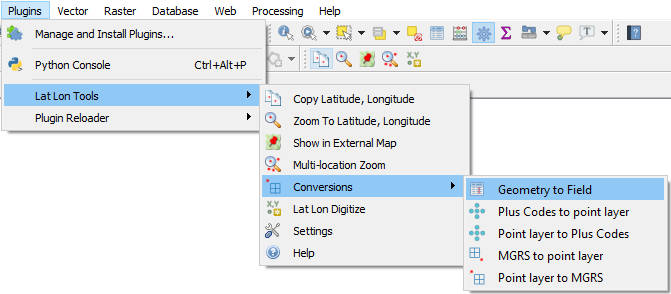
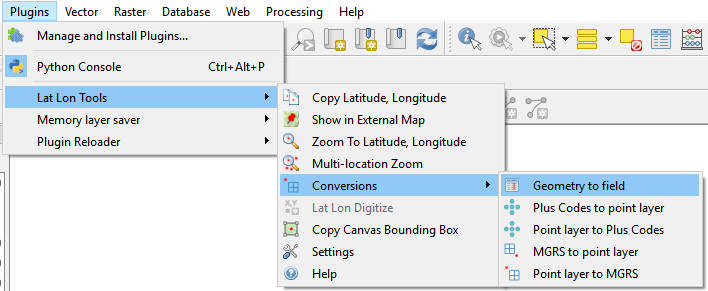
added canvas bounding box capture - updated docs

Changed region(s): [[0.0, 0.0, 1.0, 1.0]]

diff --git a/settings.py b/settings.py
@@ -13,6 +13,27 @@ FORM_CLASS, _ = loadUiType(os.path.join(
     os.path.dirname(__file__), 'ui/latLonSettings.ui'))
 
 
+class Settings():
+
+    def __init__(self):
+        self.readSettings()
+
+    def readSettings(self):
+        '''Load the user selected settings. The settings are retained even when
+        the user quits QGIS. This just loads the saved information into variables,
+        but does not update the widgets. The widgets are updated with showEvent.'''
+        qset = QSettings()
+        
+        ### BBOX CAPTURE SETTINGS ###
+        self.bBoxCrs = int(qset.value('/LatLonTools/BBoxCrs', 0)) # Specifies WGS 84
+        self.bBoxFormat = int(qset.value('/LatLonTools/BBoxFormat', 0))
+        self.bBoxDelimiter = qset.value('/LatLonTools/BBoxDelimiter', ',')
+        self.bBoxDigits = int(qset.value('/LatLonTools/BBoxDigits', 8))
+        self.bBoxPrefix = qset.value('/LatLonTools/BBoxPrefix', '')
+        self.bBoxSuffix = qset.value('/LatLonTools/BBoxSuffix', '')
+
+settings = Settings()
+
 class SettingsWidget(QDialog, FORM_CLASS):
     '''Settings Dialog box.'''
     Wgs84TypeDecimal = 0
@@ -62,6 +83,18 @@ class SettingsWidget(QDialog, FORM_CLASS):
         self.markerStyleComboBox.addItems(['Default','Labeled','Custom'])
         self.multiCoordOrderComboBox.addItems(['Lat, Lon (Y,X) - Google Map Order','Lon, Lat (X,Y) Order'])
         self.qmlStyle = ''
+        
+        ### BBOX CAPTURE SETTINGS ###
+        self.bBoxCrsComboBox.addItems(['WGS 84 (Latitude & Longitude)', 'Project CRS'])
+        self.bBoxFormatComboBox.addItems([
+            '"minX,minY,maxX,maxY" - Using the selected delimiter',
+            '"minX,maxX,minY,maxY" - Using the selected delimiter',
+            '"x1 y1,x2 y2,x3 y3,x4 y4,x1 y1" - Rectangle format',
+            'WKT Polygon',
+            '"bbox: [minX, minY, maxX, maxY]" - MapProxy',
+            '"bbox=minX,minY,maxX,maxY" - GeoServer WFS, WMS'
+            ])
+        self.bBoxDelimiterComboBox.addItems(['Comma', 'Comma, Space','Space','Tab','Other'])
         
         self.readSettings()
     
@@ -113,87 +146,117 @@ class SettingsWidget(QDialog, FORM_CLASS):
         self.markerStyleComboBox.setCurrentIndex(0)
         self.extraDataSpinBox.setValue(0)
         
+        ### BBOX CAPTURE SETTINGS ###
+        self.bBoxCrsComboBox.setCurrentIndex(0) # WGS 84
+        self.bBoxFormatComboBox.setCurrentIndex(0) # MapProxy format
+        self.bBoxDelimiterComboBox.setCurrentIndex(0) # Comma
+        self.bBoxDelimiterLineEdit.setText('')
+        self.bBoxPrefixLineEdit.setText('')
+        self.bBoxSuffixLineEdit.setText('')
+        self.bBoxDigitsSpinBox.setValue(8)
+        
     def readSettings(self):
         '''Load the user selected settings. The settings are retained even when
         the user quits QGIS. This just loads the saved information into varialbles,
         but does not update the widgets. The widgets are updated with showEvent.'''
-        settings = QSettings()
+        qset = QSettings()
         
         ### CAPTURE SETTINGS ###
-        self.captureProjection = int(settings.value('/LatLonTools/CaptureProjection', self.ProjectionTypeWgs84))
-        self.delimiter = settings.value('/LatLonTools/Delimiter', ', ')
-        self.dmsPrecision =  int(settings.value('/LatLonTools/DMSPrecision', 0))
-        self.coordOrder = int(settings.value('/LatLonTools/CoordOrder', self.OrderYX))
-        self.wgs84NumberFormat = int(settings.value('/LatLonTools/WGS84NumberFormat', 0))
-        self.otherNumberFormat = int(settings.value('/LatLonTools/OtherNumberFormat', 0))
-        self.plusCodesLength = int(settings.value('/LatLonTools/PlusCodesLength', 10))
-        self.decimalDigits = int(settings.value('/LatLonTools/DecimalDigits', 6))
+        self.captureProjection = int(qset.value('/LatLonTools/CaptureProjection', self.ProjectionTypeWgs84))
+        self.delimiter = qset.value('/LatLonTools/Delimiter', ', ')
+        self.dmsPrecision =  int(qset.value('/LatLonTools/DMSPrecision', 0))
+        self.coordOrder = int(qset.value('/LatLonTools/CoordOrder', self.OrderYX))
+        self.wgs84NumberFormat = int(qset.value('/LatLonTools/WGS84NumberFormat', 0))
+        self.otherNumberFormat = int(qset.value('/LatLonTools/OtherNumberFormat', 0))
+        self.plusCodesLength = int(qset.value('/LatLonTools/PlusCodesLength', 10))
+        self.decimalDigits = int(qset.value('/LatLonTools/DecimalDigits', 6))
         
         ### ZOOM TO SETTINGS ###
-        self.zoomToCoordOrder = int(settings.value('/LatLonTools/ZoomToCoordOrder', self.OrderYX))
-        self.zoomToProjection = int(settings.value('/LatLonTools/ZoomToCoordType', 0))
-        self.persistentMarker = int(settings.value('/LatLonTools/PersistentMarker', Qt.Checked))
+        self.zoomToCoordOrder = int(qset.value('/LatLonTools/ZoomToCoordOrder', self.OrderYX))
+        self.zoomToProjection = int(qset.value('/LatLonTools/ZoomToCoordType', 0))
+        self.persistentMarker = int(qset.value('/LatLonTools/PersistentMarker', Qt.Checked))
         
         ### EXTERNAL MAP ###
-        self.showPlacemark = int(settings.value('/LatLonTools/ShowPlacemark', Qt.Checked))
-        self.mapProvider = int(settings.value('/LatLonTools/MapProvider', 0))
-        self.mapZoom = int(settings.value('/LatLonTools/MapZoom', 13))
+        self.showPlacemark = int(qset.value('/LatLonTools/ShowPlacemark', Qt.Checked))
+        self.mapProvider = int(qset.value('/LatLonTools/MapProvider', 0))
+        self.mapZoom = int(qset.value('/LatLonTools/MapZoom', 13))
         
         ### MULTI-ZOOM CUSTOM QML STYLE ###
-        self.multiZoomToProjection = int(settings.value('/LatLonTools/MultiZoomToProjection', 0))
-        self.multiCoordOrder = int(settings.value('/LatLonTools/MultiCoordOrder', self.OrderYX))
-        self.multiZoomNumCol = int(settings.value('/LatLonTools/MultiZoomExtraData', 0))
-        self.multiZoomStyleID = int(settings.value('/LatLonTools/MultiZoomStyleID', 0))
-        self.qmlStyle = settings.value('/LatLonTools/QmlStyle', '')
+        self.multiZoomToProjection = int(qset.value('/LatLonTools/MultiZoomToProjection', 0))
+        self.multiCoordOrder = int(qset.value('/LatLonTools/MultiCoordOrder', self.OrderYX))
+        self.multiZoomNumCol = int(qset.value('/LatLonTools/MultiZoomExtraData', 0))
+        self.multiZoomStyleID = int(qset.value('/LatLonTools/MultiZoomStyleID', 0))
+        self.qmlStyle = qset.value('/LatLonTools/QmlStyle', '')
         if (self.multiZoomStyleID == 2) and (self.qmlStyle == '' or self.qmlStyle == None or not os.path.isfile(self.qmlStyle)):
             # If the file is invalid then set to an emply string
-            settings.setValue('/LatLonTools/QmlStyle', '')
-            settings.setValue('/LatLonTools/MultiZoomStyleID', 0)
+            qset.setValue('/LatLonTools/QmlStyle', '')
+            qset.setValue('/LatLonTools/MultiZoomStyleID', 0)
             self.qmlStyle = ''
             self.multiZoomStyleID = 0
+        
+        ### BBOX SETTINGS ###
+        settings.readSettings()
         
         self.setEnabled()
         
     def accept(self):
         '''Accept the settings and save them for next time.'''
-        settings = QSettings()
+        qset = QSettings()
         
         ### CAPTURE SETTINGS ###
-        settings.setValue('/LatLonTools/CaptureProjection', int(self.captureProjectionComboBox.currentIndex()))
+        qset.setValue('/LatLonTools/CaptureProjection', int(self.captureProjectionComboBox.currentIndex()))
             
-        settings.setValue('/LatLonTools/WGS84NumberFormat', int(self.wgs84NumberFormatComboBox.currentIndex()))
-        settings.setValue('/LatLonTools/OtherNumberFormat', int(self.otherNumberFormatComboBox.currentIndex()))
-        settings.setValue('/LatLonTools/CoordOrder', int(self.coordOrderComboBox.currentIndex()))
+        qset.setValue('/LatLonTools/WGS84NumberFormat', int(self.wgs84NumberFormatComboBox.currentIndex()))
+        qset.setValue('/LatLonTools/OtherNumberFormat', int(self.otherNumberFormatComboBox.currentIndex()))
+        qset.setValue('/LatLonTools/CoordOrder', int(self.coordOrderComboBox.currentIndex()))
         delim = self.delimComboBox.currentIndex()
         if delim == 0:
-            settings.setValue('/LatLonTools/Delimiter', ', ')
+            qset.setValue('/LatLonTools/Delimiter', ', ')
         elif delim == 1:
-            settings.setValue('/LatLonTools/Delimiter', ' ')
+            qset.setValue('/LatLonTools/Delimiter', ' ')
         elif delim == 2:
-            settings.setValue('/LatLonTools/Delimiter', '\t')
+            qset.setValue('/LatLonTools/Delimiter', '\t')
         else:
-            settings.setValue('/LatLonTools/Delimiter', self.otherTxt.text())
+            qset.setValue('/LatLonTools/Delimiter', self.otherTxt.text())
             
-        settings.setValue('/LatLonTools/DMSPrecision', self.precisionSpinBox.value())
-        settings.setValue('/LatLonTools/PlusCodesLength', self.plusCodesSpinBox.value())
-        settings.setValue('/LatLonTools/DecimalDigits', self.digitsSpinBox.value())
+        qset.setValue('/LatLonTools/DMSPrecision', self.precisionSpinBox.value())
+        qset.setValue('/LatLonTools/PlusCodesLength', self.plusCodesSpinBox.value())
+        qset.setValue('/LatLonTools/DecimalDigits', self.digitsSpinBox.value())
         
         ### ZOOM TO SETTINGS ###
-        settings.setValue('/LatLonTools/ZoomToCoordType', int(self.zoomToProjectionComboBox.currentIndex()))
-        settings.setValue('/LatLonTools/ZoomToCoordOrder', int(self.zoomToCoordOrderComboBox.currentIndex()))
-        settings.setValue('/LatLonTools/PersistentMarker', self.persistentMarkerCheckBox.checkState())
+        qset.setValue('/LatLonTools/ZoomToCoordType', int(self.zoomToProjectionComboBox.currentIndex()))
+        qset.setValue('/LatLonTools/ZoomToCoordOrder', int(self.zoomToCoordOrderComboBox.currentIndex()))
+        qset.setValue('/LatLonTools/PersistentMarker', self.persistentMarkerCheckBox.checkState())
         
         ### EXTERNAL MAP ###
-        settings.setValue('/LatLonTools/ShowPlacemark', self.showPlacemarkCheckBox.checkState())
-        settings.setValue('/LatLonTools/MapProvider',int(self.mapProviderComboBox.currentIndex()))
-        settings.setValue('/LatLonTools/MapZoom',int(self.zoomSpinBox.value()))
+        qset.setValue('/LatLonTools/ShowPlacemark', self.showPlacemarkCheckBox.checkState())
+        qset.setValue('/LatLonTools/MapProvider',int(self.mapProviderComboBox.currentIndex()))
+        qset.setValue('/LatLonTools/MapZoom',int(self.zoomSpinBox.value()))
         
         ### MULTI-ZOOM TO SETTINGS ###
-        settings.setValue('/LatLonTools/MultiZoomToProjection', int(self.multiZoomToProjectionComboBox.currentIndex()))
-        settings.setValue('/LatLonTools/MultiCoordOrder', int(self.multiCoordOrderComboBox.currentIndex()))
-        settings.setValue('/LatLonTools/MultiZoomExtraData', int(self.extraDataSpinBox.value()))
-        settings.setValue('/LatLonTools/MultiZoomStyleID', int(self.markerStyleComboBox.currentIndex()))
-        settings.setValue('/LatLonTools/QmlStyle', self.qmlLineEdit.text())
+        qset.setValue('/LatLonTools/MultiZoomToProjection', int(self.multiZoomToProjectionComboBox.currentIndex()))
+        qset.setValue('/LatLonTools/MultiCoordOrder', int(self.multiCoordOrderComboBox.currentIndex()))
+        qset.setValue('/LatLonTools/MultiZoomExtraData', int(self.extraDataSpinBox.value()))
+        qset.setValue('/LatLonTools/MultiZoomStyleID', int(self.markerStyleComboBox.currentIndex()))
+        qset.setValue('/LatLonTools/QmlStyle', self.qmlLineEdit.text())
+        
+        ### BBOX CAPTURE SETTINGS ###
+        qset.setValue('/LatLonTools/BBoxCrs', int(self.bBoxCrsComboBox.currentIndex()))
+        qset.setValue('/LatLonTools/BBoxFormat', int(self.bBoxFormatComboBox.currentIndex()))
+        delim = self.bBoxDelimiterComboBox.currentIndex()
+        if delim == 0:
+            qset.setValue('/LatLonTools/BBoxDelimiter', ',')
+        elif delim == 1:
+            qset.setValue('/LatLonTools/BBoxDelimiter', ', ')
+        elif delim == 2:
+            qset.setValue('/LatLonTools/BBoxDelimiter', ' ')
+        elif delim == 3:
+            qset.setValue('/LatLonTools/BBoxDelimiter', '\t')
+        else:
+            qset.setValue('/LatLonTools/BBoxDelimiter', self.bBoxDelimiterLineEdit.text())
+        qset.setValue('/LatLonTools/BBoxPrefix', self.bBoxPrefixLineEdit.text())
+        qset.setValue('/LatLonTools/BBoxSuffix', self.bBoxSuffixLineEdit.text())
+        qset.setValue('/LatLonTools/BBoxDigits', self.bBoxDigitsSpinBox.value())
         
         # The values have been read from the widgets and saved to the registry.
         # Now we will read them back to the variables.
@@ -269,6 +332,25 @@ class SettingsWidget(QDialog, FORM_CLASS):
         self.extraDataSpinBox.setValue(self.multiZoomNumCol)
         self.markerStyleComboBox.setCurrentIndex(self.multiZoomStyleID)
         self.qmlLineEdit.setText(self.qmlStyle)
+        
+        ### BBOX CAPTURE SETTINGS ###
+        self.bBoxCrsComboBox.setCurrentIndex(settings.bBoxCrs)
+        self.bBoxFormatComboBox.setCurrentIndex(settings.bBoxFormat)
+        self.bBoxDelimiterLineEdit.setText('')
+        if settings.bBoxDelimiter == ',':
+            self.bBoxDelimiterComboBox.setCurrentIndex(0)
+        elif settings.bBoxDelimiter == ', ':
+            self.bBoxDelimiterComboBox.setCurrentIndex(1)
+        elif settings.bBoxDelimiter == ' ':
+            self.bBoxDelimiterComboBox.setCurrentIndex(2)
+        elif settings.bBoxDelimiter == '\t':
+            self.bBoxDelimiterComboBox.setCurrentIndex(3)
+        else:
+            self.bBoxDelimiterComboBox.setCurrentIndex(4)
+            self.bBoxDelimiterLineEdit.setText(settings.bBoxDelimiter)
+        self.bBoxPrefixLineEdit.setText(settings.bBoxPrefix)
+        self.bBoxSuffixLineEdit.setText(settings.bBoxSuffix)
+        self.bBoxDigitsSpinBox.setValue(settings.bBoxDigits)
         
         self.setEnabled()
 

diff --git a/latLonTools.py b/latLonTools.py
@@ -1,7 +1,7 @@
 from qgis.PyQt.QtCore import Qt, QTimer, QUrl
 from qgis.PyQt.QtGui import QIcon
-from qgis.PyQt.QtWidgets import QAction, QMenu
-from qgis.core import QgsCoordinateTransform, QgsVectorLayer, QgsRectangle, QgsPoint, QgsPointXY, QgsGeometry, QgsWkbTypes, QgsProject, QgsApplication
+from qgis.PyQt.QtWidgets import QAction, QMenu, QApplication
+from qgis.core import Qgis, QgsCoordinateTransform, QgsVectorLayer, QgsRectangle, QgsPoint, QgsPointXY, QgsGeometry, QgsWkbTypes, QgsProject, QgsApplication
 from qgis.gui import QgsRubberBand
 import processing
 
@@ -9,8 +9,9 @@ from .zoomToLatLon import ZoomToLatLon
 from .multizoom import MultiZoomWidget
 from .copyLatLonTool import CopyLatLonTool
 from .showOnMapTool import ShowOnMapTool
-from .settings import SettingsWidget
+from .settings import SettingsWidget, settings
 from .provider import LatLonToolsProvider
+from .util import epsg4326
 import os
 import webbrowser
 
@@ -105,6 +106,14 @@ class LatLonTools:
         self.toolbar.addAction(self.digitizeAction)
         self.iface.addPluginToMenu('Lat Lon Tools', self.digitizeAction)
         
+        # Add Interface for copying the canvas extent
+        icon = QIcon(os.path.dirname(__file__) + "/images/copycanvas.png")
+        self.copyCanvasAction = QAction(icon, "Copy Canvas Bounding Box", self.iface.mainWindow())
+        self.copyCanvasAction.setObjectName('latLonToolsCopyCanvas')
+        self.copyCanvasAction.triggered.connect(self.copyCanvas)
+        self.toolbar.addAction(self.copyCanvasAction)
+        self.iface.addPluginToMenu("Lat Lon Tools", self.copyCanvasAction)
+        
         # Initialize the Settings Dialog Box
         settingsicon = QIcon(os.path.dirname(__file__) + '/images/settings.png')
         self.settingsAction = QAction(settingsicon, "Settings", self.iface.mainWindow())
@@ -146,6 +155,7 @@ class LatLonTools:
         self.canvas.unsetMapTool(self.mapTool)
         self.canvas.unsetMapTool(self.showMapTool)
         self.iface.removePluginMenu('Lat Lon Tools', self.copyAction)
+        self.iface.removePluginMenu('Lat Lon Tools', self.copyCanvasAction)
         self.iface.removePluginMenu('Lat Lon Tools', self.externMapAction)
         self.iface.removePluginMenu('Lat Lon Tools', self.zoomToAction)
         self.iface.removePluginMenu('Lat Lon Tools', self.multiZoomToAction)
@@ -157,6 +167,7 @@ class LatLonTools:
         self.iface.removeDockWidget(self.multiZoomDialog)
         # Remove Toolbar Icons
         self.iface.removeToolBarIcon(self.copyAction)
+        self.iface.removeToolBarIcon(self.copyCanvasAction)
         self.iface.removeToolBarIcon(self.zoomToAction)
         self.iface.removeToolBarIcon(self.externMapAction)
         self.iface.removeToolBarIcon(self.multiZoomToAction)
@@ -176,6 +187,43 @@ class LatLonTools:
         self.copyAction.setChecked(True)
         self.canvas.setMapTool(self.mapTool)
 
+    def copyCanvas(self):
+        extent = self.iface.mapCanvas().extent()
+        canvasCrs = self.canvas.mapSettings().destinationCrs()
+        if settings.bBoxCrs ==0 and canvasCrs != epsg4326:
+            transform = QgsCoordinateTransform(canvasCrs, epsg4326, QgsProject.instance())
+            p1x, p1y = transform.transform(float(extent.xMinimum()), float(extent.yMinimum()))
+            p2x, p2y = transform.transform(float(extent.xMaximum()), float(extent.yMaximum()))
+            extent.set(p1x, p1y, p2x, p2y)
+        delim = settings.bBoxDelimiter
+        prefix = settings.bBoxPrefix
+        suffix = settings.bBoxSuffix
+        precision = settings.bBoxDigits
+        outStr = ''
+        if settings.bBoxFormat == 0: # minX,minY,maxX,maxY - using the delimiter
+            outStr = '{}{:.{prec}f}{}{:.{prec}f}{}{:.{prec}f}{}{:.{prec}f}{}'.format(prefix,
+                extent.xMinimum(),delim,extent.yMinimum(),delim,
+                extent.xMaximum(),delim,extent.yMaximum(),suffix,prec=precision)
+        elif settings.bBoxFormat == 1: # minX,maxX,minY,maxY - Using the selected delimiter'
+            outStr = '{}{:.{prec}f}{}{:.{prec}f}{}{:.{prec}f}{}{:.{prec}f}{}'.format(prefix,
+                extent.xMinimum(),delim,extent.xMaximum(),delim,
+                extent.yMinimum(),delim,extent.yMaximum(),suffix,prec=precision)
+        elif settings.bBoxFormat == 2: # x1 y1,x2 y2,x3 y3,x4 y4,x1 y1 - Polygon format
+            outStr = extent.asPolygon()
+        elif settings.bBoxFormat == 3: # WKT Polygon
+            outStr = extent.asWktPolygon()
+        elif settings.bBoxFormat == 4: # bbox: [minX, minY, maxX, maxY] - MapProxy
+            outStr = 'bbox: [{}, {}, {}, {}]'.format(
+                extent.xMinimum(),extent.yMinimum(),
+                extent.xMaximum(),extent.yMaximum())
+        elif settings.bBoxFormat == 5: # bbox: [minX, minY, maxX, maxY] - MapProxy
+            outStr = 'bbox={},{},{},{}'.format(
+                extent.xMinimum(),extent.yMinimum(),
+                extent.xMaximum(),extent.yMaximum())
+        clipboard = QApplication.clipboard()
+        clipboard.setText(outStr)
+        self.iface.messageBar().pushMessage("", "'{}' copied to the clipboard".format(outStr), level=Qgis.Info, duration=4)
+        
     def setShowMapTool(self):
         '''Set the focus of the external map tool and check it'''
         self.externMapAction.setChecked(True)

diff --git a/readme.md b/readme.md
@@ -23,7 +23,7 @@ Some of the functions can be accessed from the ***Lat Lon Tools*** toolbar. If f
     * Example MGRS coordinate when **Zoom to Coordinate Type** is set to ***MGRS***: 15S UD 03704 14710
     * Example Plus Code coordinate when **Zoom to Coordinate Type** is set to ***Plus Codes***: 86C6XP5M+QR
 
-* <img src="images/latLonDigitize.png" alt="Digitizing Tool"> ***Points Digitizing Tool*** - This tool digitizes points and add features the selcted layer using the same coordinate input formats as the ***Zoom, to Latitude, Longitude***. A point vector layer must be selected and be edit mode for this tool to be enabled. When the user clicks on the tool, the following dialog is displayed.
+* <img src="images/latLonDigitize.png" alt="Digitizing Tool"> ***Lat Lon Digitizing Tool*** - This tool digitizes points and add features the selcted layer using the same coordinate input formats as the ***Zoom, to Latitude, Longitude***. A point vector layer must be selected and be edit mode for this tool to be enabled. When the user clicks on the tool, the following dialog is displayed.
     
     <div style="text-align:center"><img src="doc/addfeature.jpg" alt="Add Feature"></div>
     
@@ -78,6 +78,8 @@ Some of the functions can be accessed from the ***Lat Lon Tools*** toolbar. If f
     * <img src="images/pluscodes.png" alt="Plus Codes"> ***Point layer to Plus Codes*** - Convert a point vector layer into a new layer with an Plus Codes column, containing coordinates based on the vector layer's geometry.
 
     <div style="text-align:center"><img src="doc/geom2pluscodes.jpg" alt="Point layer to Plus Codes"></div>
+
+* <img src="images/copycanvas.png" alt="Copy canvas bounding box"> ***Copy Canvas Bounding Box*** - Copy the canvas bounding box to the clipboard using one of the formats in settings.
 
 * <img src="images/settings.png" alt="Settings"> ***Settings*** - Displays the settings dialog box (see below).
 * <img src="images/help.png" alt="Help"> ***Help*** - Displays this help page.
@@ -199,3 +201,33 @@ The ***Browse*** button allows selection of the .qml style file. When a .qml fil
 **Data Field Settings**
     
 * ***Number of extra data fields*** - Besides *Latitude*, *Longitude*, and *Label*, the user can add up to 10 additional data fields which are labeled as *Data1*, *Data2*, ... *Data10*. By default this is set to 0.
+
+### BBox Capture Settings
+
+<div style="text-align:center"><img src="doc/settings5.jpg" alt="BBOX Capture Settings"></div>
+
+These are the settings for the bounding box capture to clipboard tool.
+
+**CRS/Projection of captured bounding box coordinates**
+
+Specify whether the captured bounding box will use WGS84 or the QGIS project's projections. The options are:
+
+* ***WGS 84 (Latitude & Longitude)***
+* ***Project CRS***
+
+**Format of the captured bounding box** specifies the format of the bounding box captured on the clipboard. It can be one of the following formats.
+
+* ***minX,minY,maxX,maxY*** - Using the selected delimiter
+* ***minX,maxX,minY,maxY*** - Using the selected delimiter
+* ***x1 y1,x2 y2,x3 y3,x4 y4,x1 y1*** - Polygon format
+* ***WKT Polygon***
+* ***bbox: [minX, minY, maxX, maxY]*** - Format used by MapProxy
+* ***bbox=minX,minY,maxX,maxY*** - Format used by GeoServer WFS, WMS
+
+**Delimiter between coordinates for non-specific formats** - This affects only the first two of the above formats. It is used between coordinates with presets for **Comma**, **Comma Space**, **Space**, **Tab**, and **Other**.
+
+**Prefix** - This is used for the first 3 formats and it is a prefix that is attached to the beginning of the captured bounding box string.
+
+**Suffix** - This is used for the first 3 formats and it is a suffix that is attached to the ending of the captured bounding box string.
+
+**Significant digits after decimal** - This is the precision or number of digits after the decimal in the ouput coordinates.
